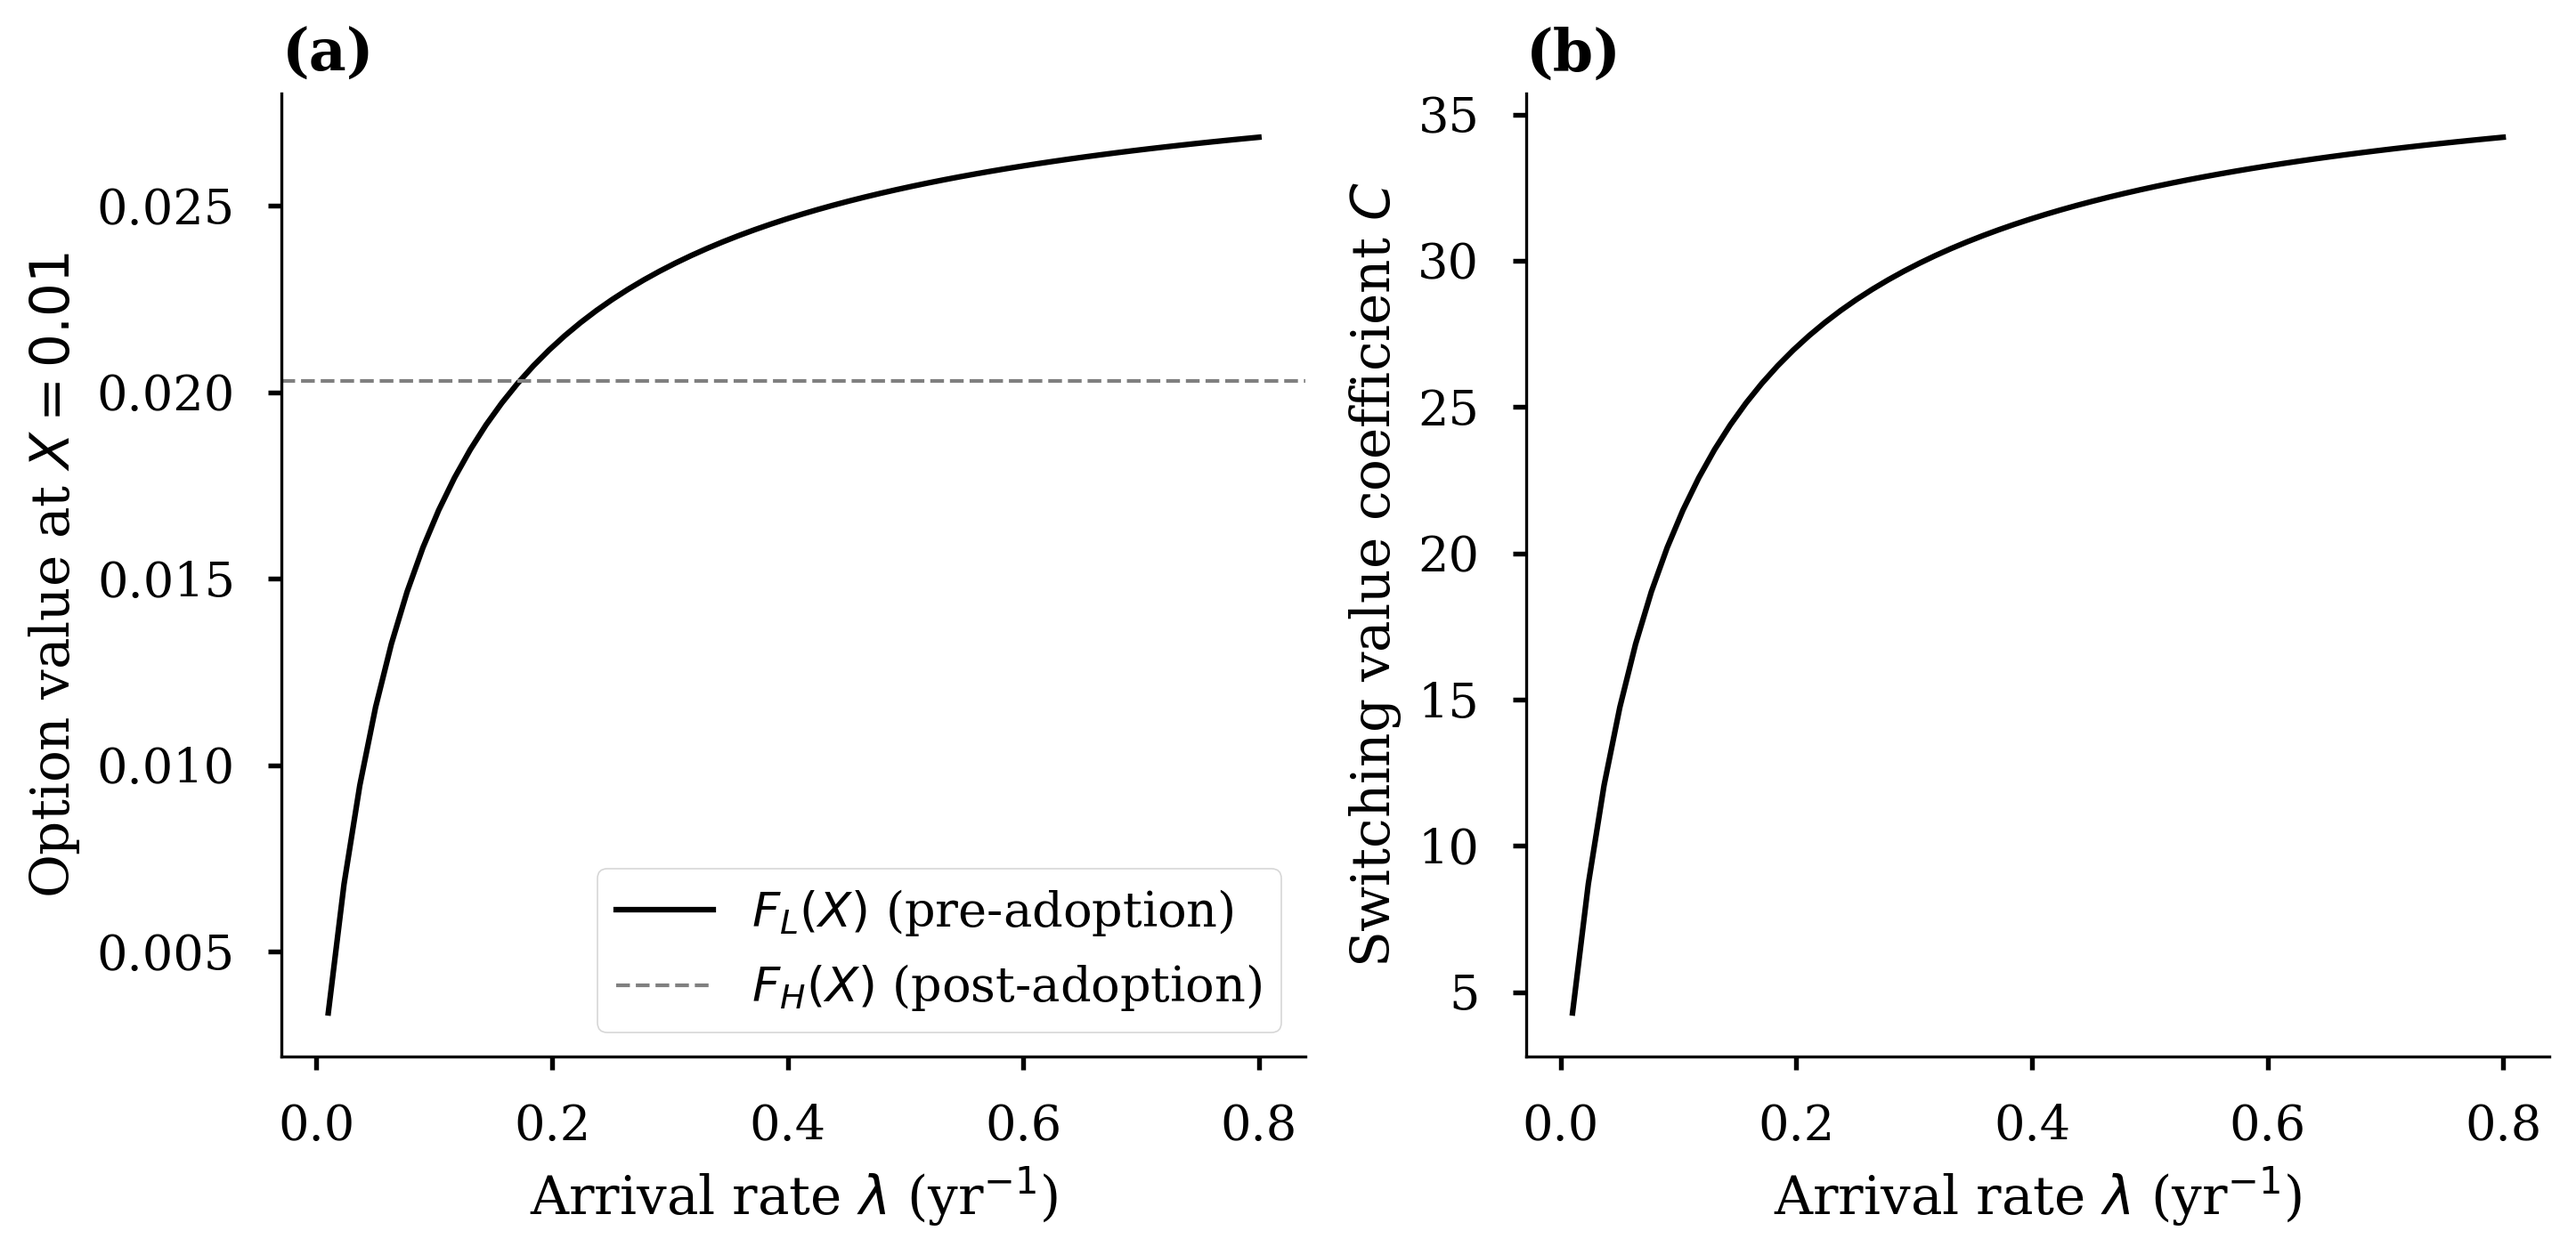
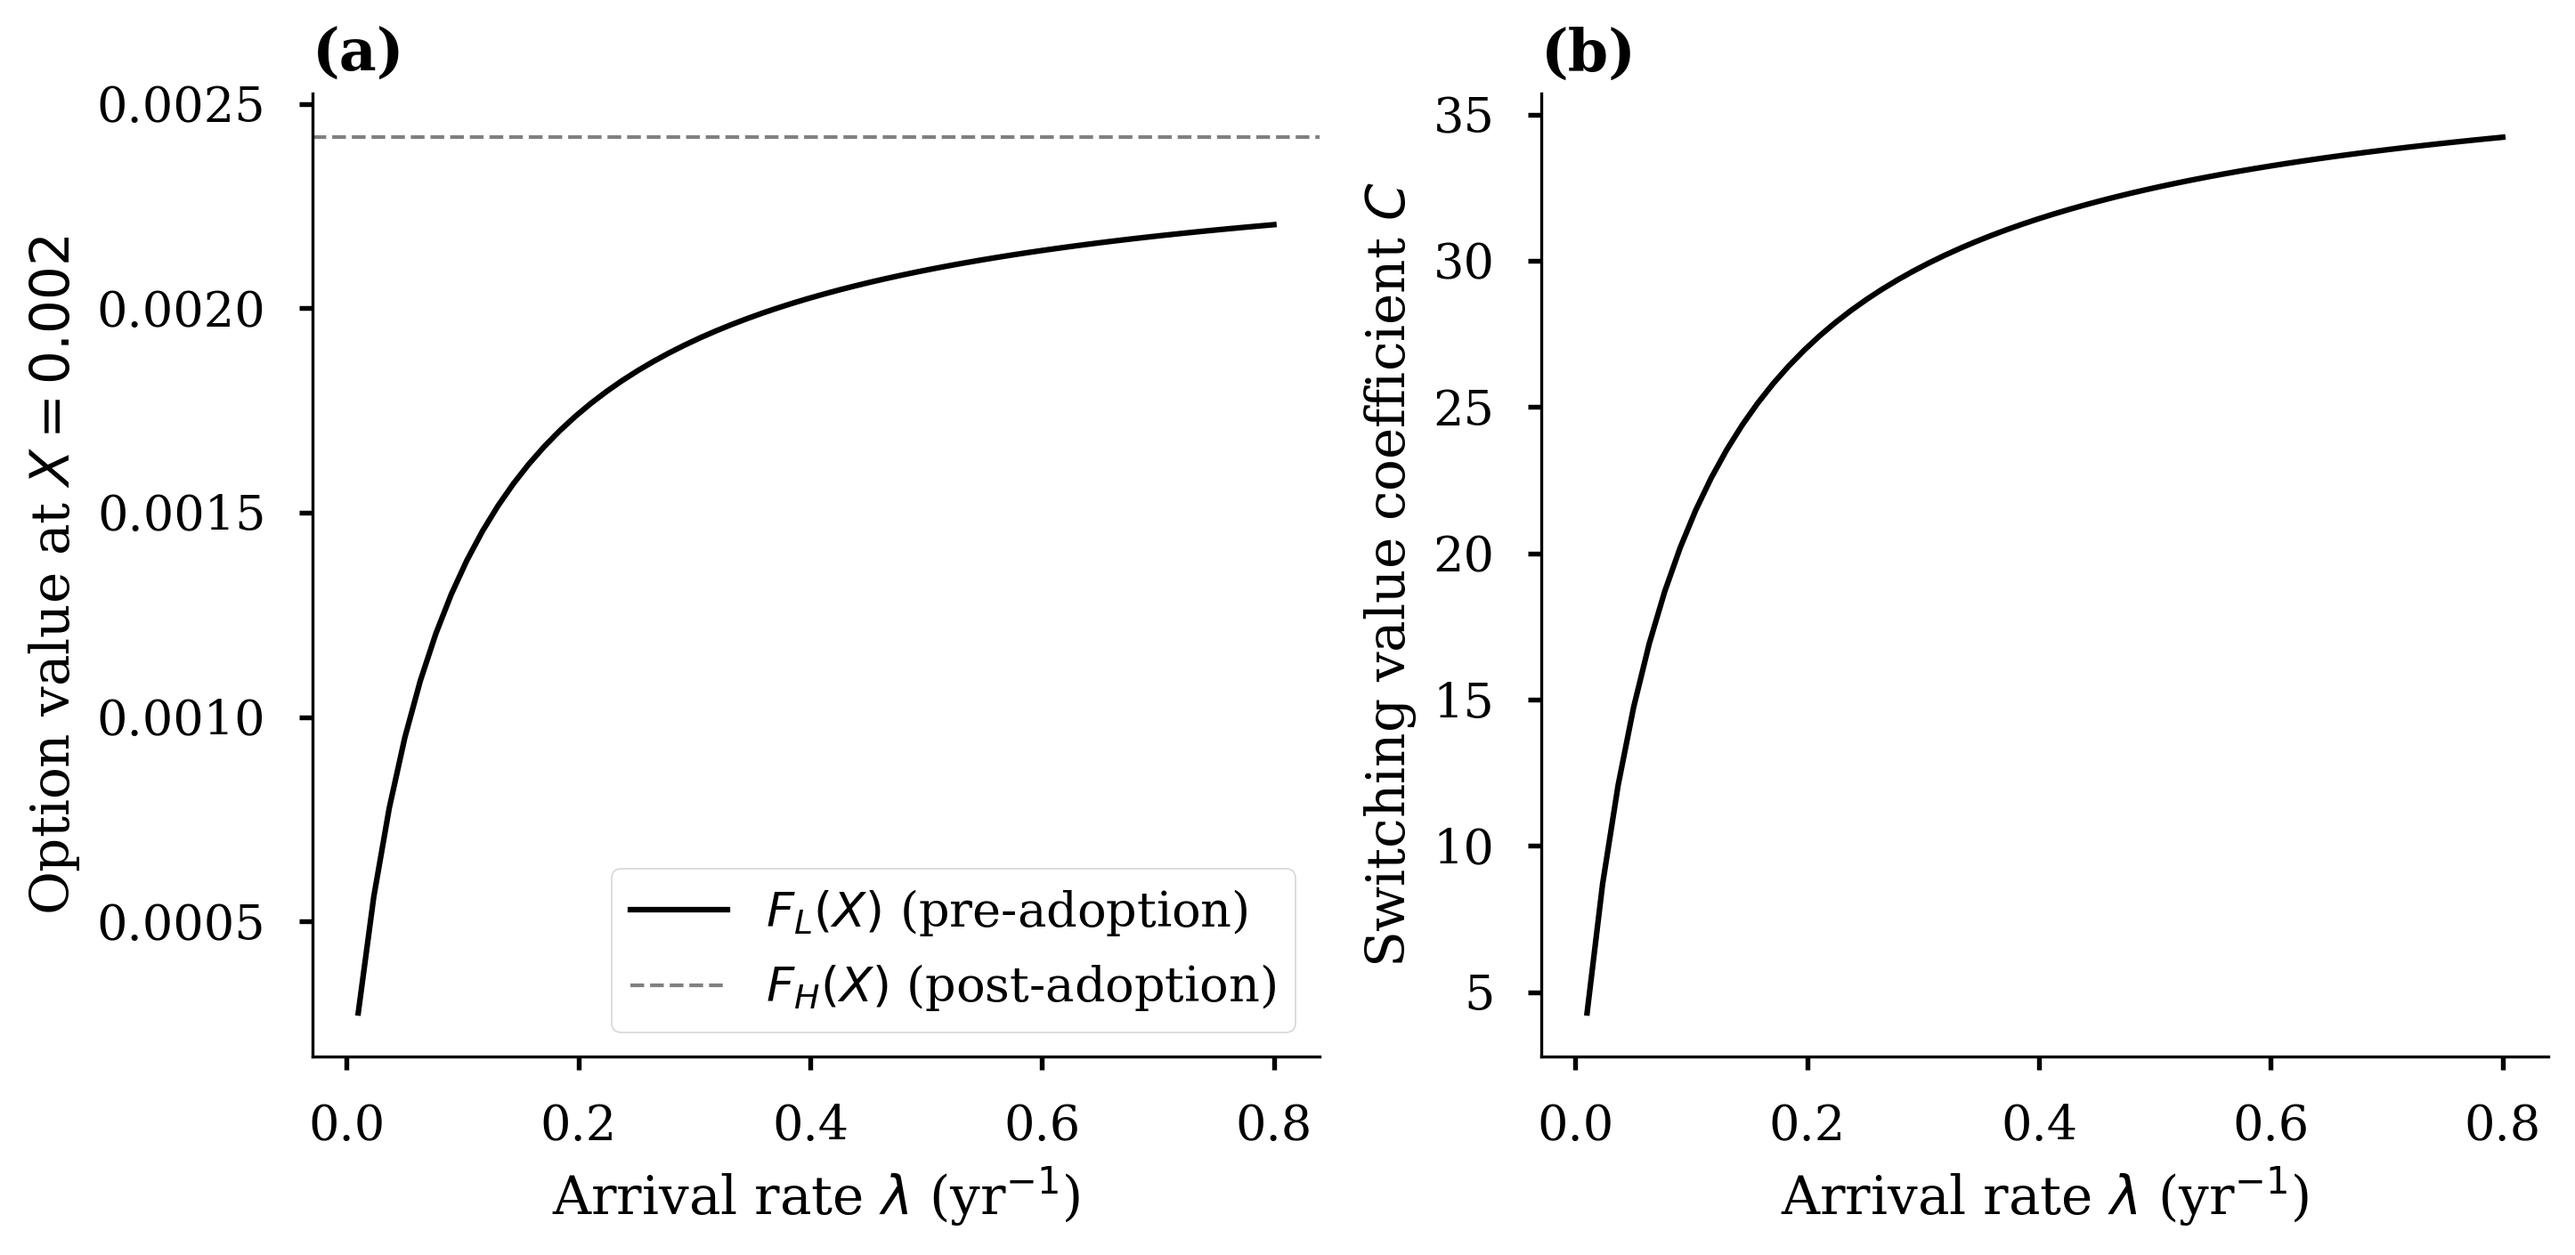
Correct Lean-verification wording and address #99 Part-3 review notes
Lean-verification appendix/README wording (no proof changes):
- beta_L+ is the positive root of the homogeneous switching ODE (effective
  discount r+lambda), not the lambda=0 ODE
- narrow the K*/phi* claims to the FOC reduction, closed forms, phi-independence,
  the unique interior critical point, and comparative statics (global optimality
  via strict concavity / Inada is not formalized)
- make the preemption-trigger claim conditional on the generic IVT / strict-
  concavity lemmas' hypotheses

#99 "review notes surfaced while building Part 3":
- fig-lambda-option-value: evaluate at X=0.002 (below the lambda-independent
  X_H* ~ 0.0028) so F_L and F_H are both option values and F_L approaches F_H
  from below, removing the spurious crossing at lambda ~ 0.17 that occurs at
  X=0.01 where F_H is installed NPV and F_L is the extrapolated option form
- Step 5b: derive the trigger from the coefficient-independent VM/SP ratio and
  price the option with the smooth-fit coefficient under the unconditional-A_eff
  convention, rather than asserting the forced-ODE particular coefficient C is
  predetermined (implied 16.5 vs ODE 21.1 at baseline); eq-trigger-phi unchanged

Regenerate index.tex and fig_lambda_option_value.

diff --git a/paper/index.tex b/paper/index.tex
@@ -1033,7 +1033,7 @@ through the continuation value channel.
 \caption{\label{fig-lambda-option-value}Effect of regime-switch arrival
 rate \(\lambda\) on pre-adoption option value. (a) Option value
 \(F_L(X)\) in regime \(L\) (solid) and \(F_H(X)\) in regime \(H\)
-(dashed, independent of \(\lambda\)), evaluated at \(X = 0.01\). (b)
+(dashed, independent of \(\lambda\)), evaluated at \(X = 0.002\). (b)
 Particular-solution coefficient \(C\) capturing the value of the
 regime-switch option. Higher \(\lambda\) raises \(F_L\) toward \(F_H\)
 by increasing the expected value of the switching opportunity.}
@@ -2997,10 +2997,11 @@ verified with the Lean 4 proof assistant\footnote{\url{https://lean-lang.org/}}
 and its mathematical library Mathlib. The machine-checked formalization
 covers the algebraic and single-variable-calculus content of
 Propositions 1--3: the investment trigger Equation~\ref{eq-trigger-phi},
-the net present value at the trigger, and the closed-form optimal
-capacity \(K^*\) and its independence from the training fraction
-(Proposition 1, Steps 1--4); the existence, uniqueness, and comparative
-statics of the interior optimal training fraction \(\phi^*\)
+the net present value at the trigger, and the capacity first-order
+condition and its closed-form solution \(K^*\), independent of the
+training fraction (Proposition 1, Steps 1--4); the reduction of the
+training-fraction first-order condition to the unique interior critical
+point \(\phi^*\) in closed form, together with its comparative statics
 (Proposition 1, Steps 5--6); the reduction of the homogeneous Euler ODE
 to the characteristic equation Equation~\ref{eq-beta-H} (a power
 solution \(X^\beta\) solves the ODE if and only if \(Q(\beta) = 0\)) and
@@ -3014,9 +3015,11 @@ monotonicity in \(\lambda\) together with the net-condition
 rearrangement (Proposition 2); and, for the duopoly, the
 scale-invariance of the Tullock contest share that underlies
 role-invariance, the separable reduction of the follower's revenue
-coefficient, the contest-derivative factorization, and the existence and
-(zero-leverage) single-crossing uniqueness of the preemption trigger
-\(X_P\) (Proposition 3). Each theorem is proved in full, with no
+coefficient, the contest-derivative factorization, and the generic
+intermediate-value existence and strict-concavity single-crossing lemmas
+underlying the preemption trigger \(X_P\), conditional on the
+continuity, endpoint-sign, and (zero-leverage) concavity hypotheses the
+paper supplies (Proposition 3). Each theorem is proved in full, with no
 unproved placeholders, depends only on the proof assistant's standard
 logical axioms, and is stated for arbitrary admissible parameters rather
 than the baseline calibration alone. The scope is the algebra and
@@ -3136,8 +3139,10 @@ uniqueness.
 The general L-regime option value
 \(F_L(X) = A_1 X^{\beta_L^+} + C X^{\beta_H}\)
 (Equation~\ref{eq-option-L-general}) decomposes into a homogeneous
-component \(A_1 X^{\beta_L^+}\), which solves the L-regime ODE with
-\(\lambda = 0\) (no regime switching), and a particular component
+component \(A_1 X^{\beta_L^+}\), where \(\beta_L^+\) is the positive
+root of the homogeneous L-regime switching ODE (effective discount
+\(r + \lambda\); Equation~\ref{eq-hjb-L} without its forcing term
+\(\lambda B_H X^{\beta_H}\)), and a particular component
 \(C X^{\beta_H}\), driven by the forcing term \(\lambda F_H(X)\), with
 coefficient \(C = -\lambda B_H / Q_L(\beta_H)\) determined by the ODE
 (Equation~\ref{eq-particular-C}).
@@ -3180,16 +3185,18 @@ condition, eliminates the positive homogeneous root---leaving exactly
 \(C X^{\beta_H}\). Hence \(F_L(X) \geq C X^{\beta_H}\) by optimality.
 Therefore \(A_1 = 0\).
 
-With \(A_1 = 0\), the two boundary conditions at the investment trigger
-\(X^*\) (value-matching and smooth-pasting) constitute two equations in
-one unknown (\(X^*\)), since \(C\) is already determined by the ODE.
-Dividing value-matching by smooth-pasting yields: \[
+With \(A_1 = 0\), dividing value-matching by smooth-pasting at the
+investment trigger \(X^*\) eliminates the coefficient on \(X^{\beta_H}\)
+and yields: \[
 X^* = \frac{\beta_H}{\beta_H - 1} \cdot \frac{\delta K^*/r + I(K^*)}{A_{\text{eff}}(\phi^*, K^*)},
-\] confirming Equation~\ref{eq-trigger-phi}. The system is consistent
-(not overdetermined) because the two conditions are jointly the
-first-order optimality conditions of the stopping problem---they pin
-down the single unknown \(X^*\) given the predetermined \(C\) and the
-optimal \((K^*, \phi^*)\). \(\square\)
+\] confirming Equation~\ref{eq-trigger-phi}. The trigger therefore
+depends only on the value-matching/smooth-pasting ratio, not on the
+level of that coefficient, which value-matching at \(X^*\) then
+determines. Under the unconditional-\(A_{\text{eff}}\) convention
+(Appendix B), the option is priced with this smooth-fit coefficient
+rather than with the forced-ODE particular value \(C\) of
+Equation~\ref{eq-particular-C}, leaving Equation~\ref{eq-trigger-phi}
+unchanged. \(\square\)
 
 At the baseline calibration, \(\beta_L^+ \approx 3.01\) gives
 \(\Phi_L \approx 1.67 \gg 1\), so (A3) holds with wide margin.

diff --git a/src/ai_lab_investment/figures/paper.py b/src/ai_lab_investment/figures/paper.py
@@ -208,7 +208,11 @@ def create_lambda_option_value() -> plt.Figure:
     from ..models.parameters import ModelParameters
 
     lam_vals = np.linspace(0.01, 0.80, 60)
-    X_ref = 0.01
+    # Evaluate below the (lambda-independent) H-regime trigger X_H* ~ 0.0028 so
+    # that both F_L and F_H are option values: above X_H* the H firm has already
+    # invested and F_H(X) becomes installed NPV, which F_L = C*X^{beta_H} (the
+    # extrapolated option form) overshoots, producing a spurious crossing.
+    X_ref = 0.002
 
     F_L_vals = np.full_like(lam_vals, np.nan)
     F_H_vals = np.full_like(lam_vals, np.nan)

diff --git a/README.md b/README.md
@@ -64,10 +64,10 @@ Some commonly used commands include:
 The paper's closed-form results are independently machine-checked in [Lean 4](https://lean-lang.org/) against [Mathlib](https://github.com/leanprover-community/mathlib4). The Lean package lives in [`lean/`](lean/README.md) and verifies, with kernel-checked, `sorry`-free proofs:
 
 - **The Euler ODE** — that the power solution `X^β` solves the homogeneous Hamilton–Jacobi–Bellman ODE **iff** `β` solves the characteristic equation `Q(β)=0` (tying the roots to the actual ODE, not just an asserted quadratic).
-- **Proposition 1** — the investment trigger `X* = β/(β-1)·b/A` and the NPV `b/(β-1)`; the closed-form optimal capacity `K*` and its independence from `φ`; and the optimal training fraction `φ*` (existence, uniqueness, and comparative statics: increasing in `λ` and `μ_H`, independent of `μ_L`).
+- **Proposition 1** — the investment trigger `X* = β/(β-1)·b/A` and the NPV `b/(β-1)`; the capacity first-order condition and its closed-form solution `K*`, independent of `φ`; and the training fraction `φ*` reduced to its unique interior critical point in closed form, with comparative statics (increasing in `λ` and `μ_H`, independent of `μ_L`).
 - **Characteristic roots** — the quadratic roots, the positive root exceeding 1 (`β_H>1`, `β_L⁺>1`), the negative root (`β_s⁻<0`), the ordering `β_L⁺ > β_H`, and the Leland markup factor in `(0,1)`.
 - **Proposition 2** — the quotient-rule derivative `∂A_eff/∂λ`, the faith-based-survival condition and threshold `φ̲ = R/(1+R)`, and the default boundary increasing in leverage and rival capacity.
-- **Proposition 3 (duopoly)** — the Tullock contest-share scale-invariance behind role-invariance, the separable reduction of the follower coefficient, the contest-derivative factorization, and the existence and (zero-leverage) single-crossing uniqueness of the preemption trigger `X_P`.
+- **Proposition 3 (duopoly)** — the Tullock contest-share scale-invariance behind role-invariance, the separable reduction of the follower coefficient, the contest-derivative factorization, and the generic intermediate-value existence and strict-concavity single-crossing lemmas underlying the preemption trigger `X_P` (conditional on the continuity, endpoint-sign, and zero-leverage concavity hypotheses the paper supplies).
 
 Each theorem holds for all admissible parameter values (not just the baseline calibration) and depends only on Lean's standard axioms. To reproduce:
 
